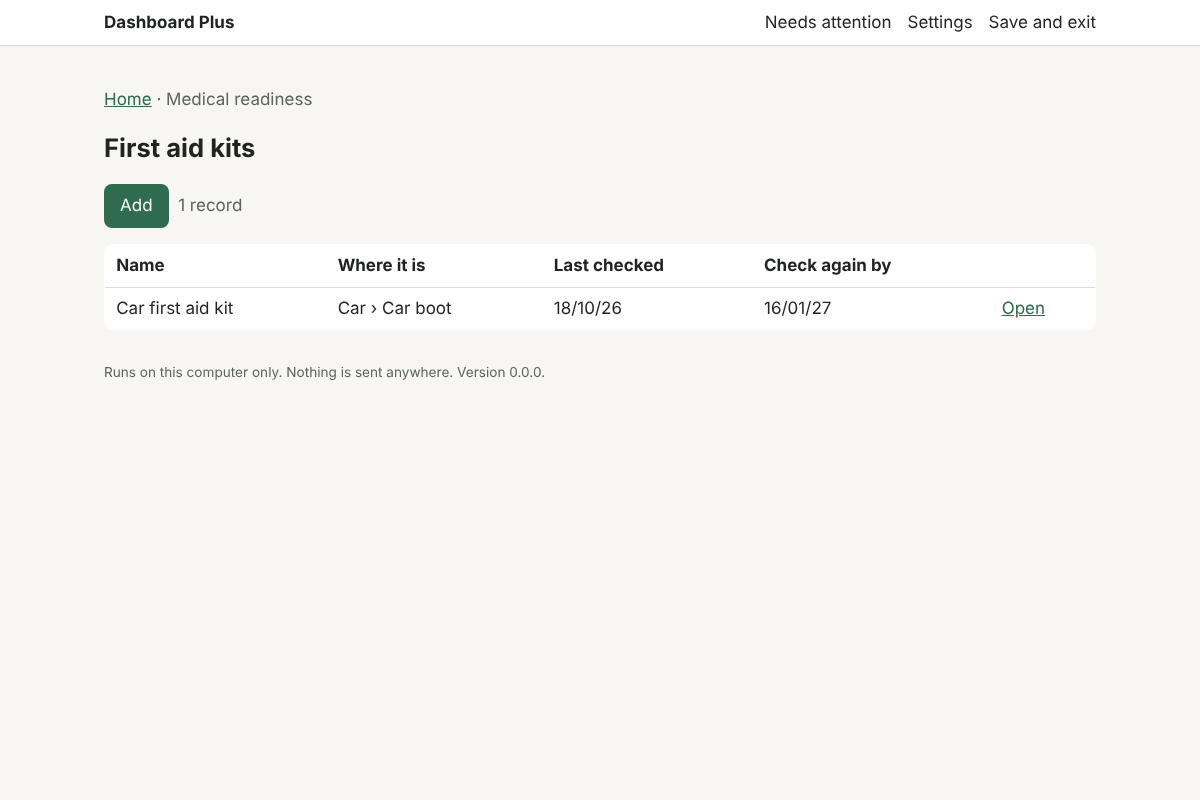
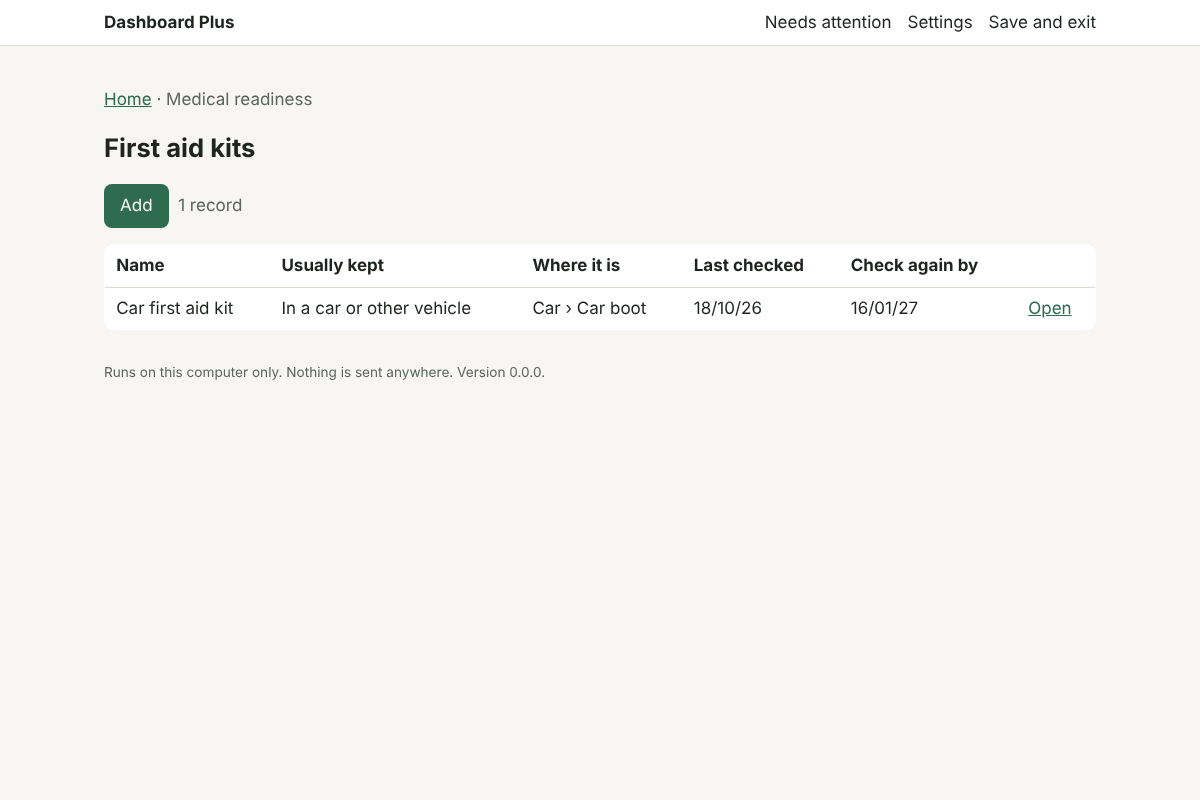
Kits say where they are kept; wrong-order dates get a hint; Lane B batches 5-8 combined and batch 9-11 roadmap
- Lane B #65 to #73 combined (workbench only); drafts index may run to 40 lines
- Medical: each kit is kept at home, in a vehicle or elsewhere; the home-kit
  question stays until a kit is kept at home (Lane B UX check, finding 1)
- Date box: a date typed in the other country's order says
  "Use DD/MM/YY, for example 20/05/27." (finding 2)
- docs/WORKSTREAMS.md: Lane B batches 9 to 11

Claude-Session: https://claude.ai/code/session_01NY4YczT1cyZFgfHagCWCs7

diff --git a/src/dashboard/web/templates/form.html b/src/dashboard/web/templates/form.html
@@ -237,8 +237,14 @@
   (function () {
     var MONTHS = ["January", "February", "March", "April", "May", "June", "July", "August", "September",
                   "October", "November", "December"];
+    var EXAMPLES = {dmy: "Use DD/MM/YY, for example 20/05/27.", mdy: "Use MM/DD/YY, for example 05/20/27.",
+                    ymd: "Use YYYY-MM-DD, for example 2027-05-20."};
+    function real(y, mo, d) {
+      var when = new Date(Date.UTC(y, mo - 1, d));
+      return when.getUTCFullYear() === y && when.getUTCMonth() === mo - 1 && when.getUTCDate() === d;
+    }
     function read(text, style) {
-      var m = /^(\d{4})-(\d{1,2})-(\d{1,2})$/.exec(text), y, mo, d;
+      var m = /^(\d{4})-(\d{1,2})-(\d{1,2})$/.exec(text), y, mo, d, typed = !m;
       if (m) { y = +m[1]; mo = +m[2]; d = +m[3]; }
       else {
         m = /^(\d{1,2})\s*[\/.\-]\s*(\d{1,2})\s*[\/.\-]\s*(\d{2}|\d{4})$/.exec(text);
@@ -246,15 +252,15 @@
         d = style === "mdy" ? +m[2] : +m[1]; mo = style === "mdy" ? +m[1] : +m[2];
         y = +m[3] + (m[3].length === 2 ? 2000 : 0);
       }
-      var when = new Date(Date.UTC(y, mo - 1, d));
-      if (when.getUTCFullYear() !== y || when.getUTCMonth() !== mo - 1 || when.getUTCDate() !== d) return false;
+      if (!real(y, mo, d)) return typed && real(y, d, mo) ? null : false;  // null: the other order
       return style === "mdy" ? MONTHS[mo - 1] + " " + d + ", " + y : d + " " + MONTHS[mo - 1] + " " + y;
     }
     document.querySelectorAll("[data-date-style]").forEach(function (input) {
       var preview = document.getElementById(input.id + "-preview");
       function update() {
         var text = input.value.trim(), words = text ? read(text, input.dataset.dateStyle) : null;
-        preview.textContent = words ? "\u2192 " + words : (text && words === false ? "Not a real date" : "");
+        preview.textContent = words ? "\u2192 " + words : !text ? "" : words === false ? "Not a real date" :
+          EXAMPLES[input.dataset.dateStyle];  // typed some other way, such as another country's order
       }
       input.addEventListener("input", update);
       update();

diff --git a/tests/test_module_medical.py b/tests/test_module_medical.py
@@ -35,14 +35,23 @@ class MedicalModuleTests(TempDirTestCase):
         self.assertEqual(self.report.module_problems, {})
         self.assertIn("medical", self.report.modules)
 
-    def test_asks_whether_there_is_a_kit_until_one_is_added(self):
-        self.assertEqual(self.medical_gaps(), ["Is there a first aid kit at home? Add it and where to find it."])
-        self.records.create("medical__kits", {"name": "Car kit"})
-        self.assertEqual(self.medical_gaps(), ["Where is Car kit kept?", "When do you plan to check Car kit again?"])
+    def test_asks_about_a_kit_at_home_until_one_is_recorded_there(self):
+        """A kit in the car is not there when the car is out (Lane B, Medical and dates UX check)."""
+        at_home = "No first aid kit is recorded at home. Add one, or check where your kits are kept."
+        self.assertEqual(self.medical_gaps(), [at_home])
+        car = self.records.create("medical__kits", {"name": "Car kit", "kept": "vehicle"})
+        self.assertIn(at_home, self.medical_gaps())
+        self.records.update("medical__kits", car, {"kept": "home"})
+        self.assertEqual(self.medical_gaps(), ["Which place is Car kit in? Choose where to find it.",
+                                               "When do you plan to check Car kit again?"])
+
+    def test_a_kit_saved_before_the_question_existed_is_asked_about(self):
+        self.conn.execute("INSERT INTO medical__kits (name, created_at, updated_at) VALUES ('Old kit', '', '')")
+        self.assertIn("Is Old kit kept at home, in a vehicle or somewhere else?", self.medical_gaps())
 
     def test_a_kit_check_is_due_or_overdue_never_expired(self):
-        self.records.create("medical__kits", {"name": "Car kit", "next_check": self.day(20)})
-        self.records.create("medical__kits", {"name": "Hall kit", "next_check": self.day(-2)})
+        self.records.create("medical__kits", {"name": "Car kit", "kept": "home", "next_check": self.day(20)})
+        self.records.create("medical__kits", {"name": "Hall kit", "kept": "home", "next_check": self.day(-2)})
         details = {i.name: i.detail for i in watch.expiring(self.conn, self.registry, self.today)}
         self.assertTrue(details["Car kit"].startswith("kit check due"), details["Car kit"])
         self.assertIn("overdue", details["Hall kit"])
@@ -56,7 +65,7 @@ class MedicalModuleTests(TempDirTestCase):
     def test_sheet_shows_the_full_place_path_and_leaves_out_check_notes(self):
         car = self.records.create("stock__places", {"name": "Car"})
         boot = self.records.create("stock__places", {"name": "Car boot", "inside": car})
-        kit = self.records.create("medical__kits", {"name": "Car first aid kit", "place": boot})
+        kit = self.records.create("medical__kits", {"name": "Car first aid kit", "kept": "home", "place": boot})
         self.records.create("medical__kit_checks", {"kit": kit, "checked_on": self.day(0),
                                                     "notes": "Plasters running out"})
         settings.put(self.conn, "setup.done", True)
@@ -70,7 +79,7 @@ class MedicalModuleTests(TempDirTestCase):
 
     def test_a_place_holding_a_kit_cannot_be_deleted(self):
         place = self.records.create("stock__places", {"name": "Hall closet"})
-        self.records.create("medical__kits", {"name": "Hall kit", "place": place})
+        self.records.create("medical__kits", {"name": "Hall kit", "kept": "home", "place": place})
         with self.assertRaises(records.ValidationError):
             self.records.delete("stock__places", place)
 

diff --git a/tests/test_examples.py b/tests/test_examples.py
@@ -32,7 +32,9 @@ class ExampleHouseholdTests(TempDirTestCase):
                                          "Tinned tomatoes"])
         self.assertEqual(result["expiring"], ["Muesli bars", "Monthly flea and tick chew", "Long-life milk",
                                               "Sunscreen SPF 50", "Rex", "Adrenaline auto-injector (Emily)"])
-        self.assertEqual(result["gaps"], 1)
+        self.assertEqual(result["gaps"], 2)  # their only first aid kit is in the car
+        gaps = [g.message for g in watch.gaps(result["conn"], result["registry"])]
+        self.assertIn("No first aid kit is recorded at home. Add one, or check where your kits are kept.", gaps)
 
     def test_garcia_household(self):
         result = self.summary("garcia")

diff --git a/tools/check_indexes.py b/tools/check_indexes.py
@@ -13,7 +13,7 @@ from repofiles import read_text, repo_files  # noqa: E402
 
 MAX_LINES = 25
 # Folders that hold a long catalogue of similar items may exceed the usual limit.
-LINE_LIMIT_OVERRIDES = {"docs/decisions": 80, "tests": 40}
+LINE_LIMIT_OVERRIDES = {"docs/decisions": 80, "tests": 40, "workbench/drafts": 40}
 PLACEHOLDER = "DESCRIBE ME"
 LINK = re.compile(r"\[[^\]]*\]\(([^)]+)\)")
 SEPARATOR_CELL = re.compile(r"^:?-{3,}:?$")

diff --git a/workbench/STATUS.md b/workbench/STATUS.md
@@ -42,29 +42,28 @@ the "Requests" table of docs/WORKSTREAMS.md.
 | Batch 6 item 17: readiness screens | merged by Lane A | #59 | Four-answer screen flow, honest coverage and 12 checks tied to all 49 prompts. |
 | Batch 6 item 18: country packs round 2 | merged by Lane A | #60 | 38 jurisdictions, 52 live official links, scope and reuse limits in NOTES.md. |
 | Batch 6 item 19: seasonal checklists | merged by Lane A | #61 | Five source-linked sets, 25 questions tied to Stock and Home layout; eight checks. |
-| Batch 6 item 20: grab list | ready for Lane A | #65 | Printable draft using People, Stock, Places and Medical; checklist and core needs. |
-| Batch 5 item 9: UX after Medical and local dates | ready for Lane A | this PR | Three examples load and render; car-only kit suppresses home-kit question, and wrong-order date preview is blank. |
+| Batch 6 item 20: grab list | merged by Lane A | #65 | Printable draft using People, Stock, Places and Medical; checklist and core needs. |
+| Batch 5 item 9: UX after Medical and local dates | merged by Lane A | #66 | Three examples load and render; car-only kit suppresses home-kit question, and wrong-order date preview is blank. |
+| Batch 7 item 21: outcomes defined | merged by Lane A | #67 | Four monthly measures with exact evidence gates, 12 checks and core needs. |
+| Batch 7 item 22: question-loop examples | merged by Lane A | #68 | Twenty invented changes, sensible questions and two unrelated pairings to reject per example. |
+| Batch 7 item 23: charts that help | merged by Lane A | #69 | Four chart sketches for water, waste, pet weight and readiness, with data and accessibility needs. |
+| Batch 8 item 24: promote-ready drafts | merged by Lane A | #70 | Collections, Vehicles, Documents, Home care, Wine and Garden have labels, gaps, sheets, examples and core notes. |
+| Batch 8 item 25: home inventory | merged by Lane A | #71 | Private room-linked inventory and claim sheet, fictional data, ten checks and NAIC source. |
+| Batch 8 item 26: things lent out | merged by Lane A | #72 | Loan records, active-loan sheet, fictional examples and ten checks; core needs for due filtering and return action. |
+| Batch 8 item 27: utilities and accounts | merged by Lane A | #73 | Private accounts, People contacts, Home layout meter names, three-household examples and ten checks; meter link needs promotion. |
 
 ## Messages to Lane A
 
+- Fixed by Lane A and removed from this list: nested Places paths, accessibility, drinking-water answer, Medical loader (#55, #63).
+
 - **New Medical finding:** Smith has only a car kit at Car › Car boot, yet “Is there a first aid kit at home?” is suppressed. The `none` gap needs a home-place condition or an explicit household answer. Date fields also give no live correction for the wrong local order. Steps and exact wording are in `workbench/reports/2026-11-17-medical-dates-ux.md`.
-| Batch 7 item 21: outcomes defined | ready for Lane A | this PR | Four monthly measures with exact evidence gates, 12 checks and core needs. |
 - **Outcomes core needs:** Current Stock history cannot prove old stock-outs, and Stock has no actual price or receipt total. Please keep shortage and money comparisons in baseline state until dated counts, corrections, reviewed receipts and completeness confirmations exist. The four metric definitions and checks are in `workbench/drafts/outcomes/`.
-| Batch 7 item 22: question-loop examples | ready for Lane A | this PR | Twenty invented changes, sensible questions and two unrelated pairings to reject per example. |
 - **Question-loop gate:** The twenty examples deliberately include future measures. Please do not surface a question until the measure has enough dated points, its event is recorded, and the topic and subject plausibility gate passes. `workbench/drafts/question_loop/NOTES.md` lists missing daily facts and answer state.
-| Batch 7 item 23: charts that help | ready for Lane A | this PR | Four chart sketches for water, waste, pet weight and readiness, with data and accessibility needs. |
 - **Chart prerequisites:** The four chart sketches need dated Stock balances, complete-month waste confirmation, subject-linked annotations and versioned readiness answers. A missing day must stay a gap, and every chart needs a text/table view. Details are in `workbench/drafts/charts/`.
-| Batch 8 item 24: promote-ready drafts | ready for Lane A | this PR | Collections, Vehicles, Documents, Home care, Wine and Garden have labels, gaps, sheets, examples and core notes. |
 - **Promotion notes:** Garden needs a named planting to link example harvests and cannot show only unfinished jobs as due until `expiring` supports a `where` filter. The other five drafts now have print sheets and targeted place/contact gaps. See each draft NOTES.md before promotion.
-| Batch 8 item 25: home inventory | ready for Lane A | this PR | Private room-linked inventory and claim sheet, fictional data, ten checks and NAIC source. |
 - **Inventory privacy:** The claim sheet contains room paths and serials. The core needs explicit print access and consistent sensitive-field protection in sheets, exports, helper views and backups before promotion. See `workbench/drafts/home_inventory/NOTES.md`.
-| Batch 8 item 26: things lent out | ready for Lane A | this PR | Loan records, active-loan sheet, fictional examples and ten checks; core needs for due filtering and return action. |
 - **Loan due reminders:** The current `expiring` watch cannot exclude returned loans. The draft records due dates but needs an active-only watch and an atomic Mark returned action before a Needs attention reminder is safe to show. See `workbench/drafts/lent_out/NOTES.md`.
-| Batch 8 item 27: utilities and accounts | ready for Lane A | this PR | Private accounts, People contacts, Home layout meter names, three-household examples and ten checks; meter link needs promotion. |
 - **Utility printout gap:** The current sheet contract prints a linked People contact's name but not its phone. Add linked fields and utility/fault roles in People before treating the draft contact sheet as an offline outage reference. Meter paths also need Home layout promotion. See `workbench/drafts/utilities/NOTES.md`.
-- **New nested Places finding:** With more than 500 places, the item form can show a child without its parent path and cannot find that child by the parent's name. The normal Places list also splits the path between Name and Inside. Steps and exact wording are in `workbench/reports/2026-11-17-nested-places-ux.md`.
-- **Accessibility:** The Stock Name suggestion's highlighted choice is not linked to the focused combobox for screen readers, and normal input borders measure below the WCAG 2.2 non-text contrast threshold in both themes. The emergency sheet also overflows a 320px viewport. See `workbench/reports/2026-11-17-accessibility.md` for steps and exact fixes.
-- **Priority from batch 4 item 1:** New custom Water items start with “Safe to drink” ticked. A made-up Flushing water item raised days of drinking water in the 20-good stocktake. Please require an explicit drinking answer for a new water name, and count only confirmed litres. `workbench/reports/2026-11-17-picking-water-ux.md` gives the steps and exact suggested wording.
 
 - Please review the draft modules and their NOTES.md files before promoting them.
 - The country-pack notes are source research, not pack content. The US emergency number, weather hazards and CDC water amount are cited. Australian ACT, NT, Tasmanian and WA reuse terms are recorded. NEMA and Ready.gov guidance, Victorian reuse terms, and most state-specific guidance remain unverified. Review the explicit gaps before using this material.

diff --git a/docs/WORKSTREAMS.md b/docs/WORKSTREAMS.md
@@ -144,6 +144,7 @@ session can finish; Lane A keeps it stocked.
 | A | B | Start batch 3 below: drafting heavy lifting for Lane A to polish and integrate. | done (#22, #24 to #33) |
 | A | B | Start batch 4 below: check the new picking, fill the catalogue from evidence, a places list, acceptance checks for nested places and lots, tie readiness questions to records, Collections and Vehicles drafts, a getting-started guide. | done (#38 to #50) |
 | B | A | Medical promotion blocker: the example loader failed on kit checks (no name column); also `none = {}` for "Is there a first aid kit?". | both fixed; Medical ships (decision 0051). Batches 5 and 6 merged (#62). Dates your way shipped (decision 0052); lots are next for Lane A. Lane B: carry on with batch 6 item 20, then batches 7 and 8. |
+| A | B | Batches 5 to 8 merged (#62, #65 to #73). Your Medical and dates UX findings are fixed: kits now say whether they are kept at home, in a vehicle or elsewhere, and a wrong-order date shows "Use DD/MM/YY, for example 20/05/27." Start batch 9 below. | open |
 | B | A | Module wording (`workbench/reports/2026-11-09-module-wording.md`). | adopted, lightly changed: sheet titles keep "Emergency sheet" ("fridge copy" and "with private medical details"), supplies sheet is "Emergency supplies"; the rest as suggested |
 
 ## Brief for Lane B, batch 4
@@ -298,6 +299,59 @@ Lane A" and carry on.
 26. **Tools and things lent out**: who borrowed what and when it's due back.
 27. **Utilities and household accounts**: providers, account numbers kept
     private, outage and fault lines in People, meter locations in Home layout.
+
+### Batch 9: ready for Corey's hands-on round (M1)
+
+Batches 5 to 8 are done and merged (#62, #65 to #73). Since then Medical and
+dates your way have shipped (decisions 0051, 0052); layered use-by dates
+(lots) are Lane A's next build.
+
+28. **Corey's test session script.** A one-hour guided session Corey can run
+    alone on his own computer: ten tasks from download to Save and exit
+    (stocktake twenty goods with places and dates, a first aid kit, a pet, the
+    emergency sheet), what to notice, and a short form whose answers drop
+    straight into `docs/BACKLOG.md`. Plain words; no jargon.
+29. **Lots example data.** Rewrite the Stock rows of all three example
+    households as they will look with lots (Smith's kidney beans: 3 tins at
+    Kitchen › Pantry › Shelf 3 use by next month, 10 in the garage in six
+    months), plus the item-to-lot mapping the migration must produce. Lane A
+    uses it as the migration's test fixture.
+30. **Home layout promotion pass.** Stock places now nest. Update the Home
+    layout draft so it takes over Stock's places (and Medical's kit places)
+    with an exact old-to-new mapping for all three households, exits,
+    shut-offs and the Our home sheet; acceptance checks like Medical's.
+31. **Sensitive-detail audit.** Read the shipped code and screens (do not edit
+    them) and list every way a sensitive column could appear where it should
+    not: sheets, suggestions, history, search, backups, future exports and
+    helper views. Steps, worst first, with the fix you suggest.
+
+### Batch 10: helpers, backups and the inbox (M2)
+
+32. **Agent API by example.** For every route in DESIGN section 9, a made-up
+    request and response, every refusal with its plain-language message, and
+    what the household sees in the review queue afterwards.
+33. **Review queue and inbox wording.** Exact screen words for approving,
+    changing and refusing a helper's proposal, empty states, and the count on
+    the home page.
+34. **"My computer died" guide.** Household steps for the four bad days: lost
+    USB stick, dead computer, deleted record, a backup that will not open.
+    Match the restore design from batch 5 item 11.
+35. **Country packs round 3: UK and New Zealand.** Bring them to the depth of
+    Australia and the US, with live official links and reuse terms.
+
+### Batch 11: polish and scale (M1 to M3)
+
+36. **Wording consistency.** Every label, help line, gap question and sheet
+    title across shipped modules: one word for one idea ("use by", "kept",
+    "check again by"), with an exact replacement table.
+37. **Print check.** Every printable sheet for all three households on A4 and
+    Letter, light and dark settings: overflow, page breaks, missing paths.
+38. **A big made-up household** for speed testing: 2,000 stock items, 600
+    places nested five deep, 60 people, 10 pets, 3 years of stock in and out,
+    as a loadable example file in `workbench/`.
+39. **Ready for other languages.** List every visible string in templates and
+    module files that would need translating, grouped by screen. Do not
+    translate anything yet.
 
 ## Brief for Lane B, batch 3 (done)
 

diff --git a/docs/BACKLOG.md b/docs/BACKLOG.md
@@ -17,6 +17,7 @@ sessions read this page first. Newest at the top of each section.
 
 | Date | Feedback | What changed | Pull request |
 |---|---|---|---|
+| 2026-11-17 | (Lane B UX check) A first aid kit in the car stopped the question "Is there a first aid kit at home?"; a date typed in the other country's order gave no hint. | Each kit now says whether it is kept at home, in a vehicle or somewhere else; the question stays until a kit is kept at home. A date typed the other way shows "Use DD/MM/YY, for example 20/05/27." | Kit at home, date hint |
 | 2026-11-16 | Use by typed as 20/05/27. | Dates are typed and shown your country's way: 20/05/27 in Australia, 05/20/27 in the US, saved the same either way. The form shows the date in words while you type, and impossible dates like 31/04/27 are refused (decision 0052). Layered use-by dates are next. | Dates your way |
 | 2026-11-17 | (Lane B) Medical draft ready to promote; the example loader failed on kit checks. | Medical readiness is switched on: first aid kits and where they are, kit checks, training renewals, a "First aid at home" sheet, and "Is there a first aid kit at home?" until one is added (decision 0051). | Medical readiness |
 | 2026-11-17 | (Lane B accessibility review and nested-places UX check) Suggestions not announced to screen readers, faint input borders, errors not tied to fields, emergency sheet too wide for a phone, many links all called "Open", unlabelled groups; long place lists losing a parent's path. | All fixed: suggestions and errors are announced, a summary links to each answer to check, borders meet contrast, sheets reflow on a phone, links say what they open, setup groups have names, Places list and search use full paths. | Accessibility and place paths |

diff --git a/PROJECT_MAP.md b/PROJECT_MAP.md
@@ -197,6 +197,7 @@ Generate the next one with: python tools/make_migration.py medical --name <what_
 | Entry | What it is | Open it when |
 |---|---|---|
 | 0001_first_tables.sql | The module's first tables, generated from tables.toml | checking how the tables are stored |
+| 0002_where_kits_are_kept.sql | Adds whether each kit is kept at home, in a vehicle or somewhere else | checking how the tables are stored |
 
 ## modules/people/  (summary: the People module, files only)
 | Entry | What it is | Open it when |

diff --git a/modules/medical/migrations/INDEX.md b/modules/medical/migrations/INDEX.md
@@ -4,3 +4,4 @@ Generate the next one with: python tools/make_migration.py medical --name <what_
 | Entry | What it is | Open it when |
 |---|---|---|
 | 0001_first_tables.sql | The module's first tables, generated from tables.toml | checking how the tables are stored |
+| 0002_where_kits_are_kept.sql | Adds whether each kit is kept at home, in a vehicle or somewhere else | checking how the tables are stored |
